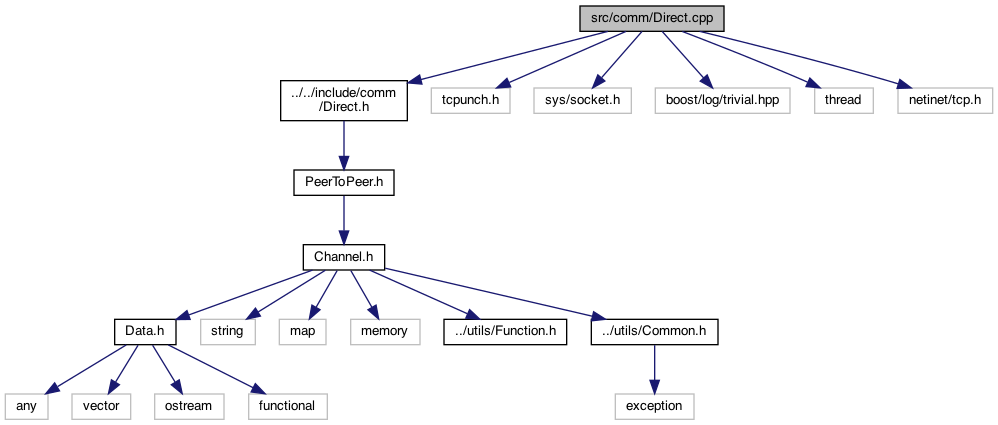
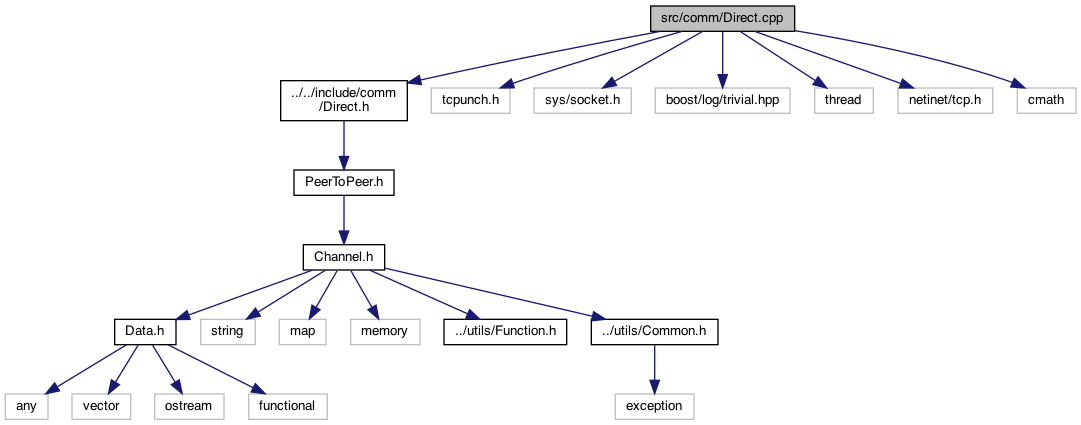
Install instructions update

diff --git a/_redis_8h_source.html b/_redis_8h_source.html
@@ -116,14 +116,14 @@ $(function() {
 <div class="ttc" id="a_client_server_8h_html"><div class="ttname"><a href="_client_server_8h.html">ClientServer.h</a></div></div>
 <div class="ttc" id="aclass_f_m_i_1_1_comm_1_1_client_server_html"><div class="ttname"><a href="class_f_m_i_1_1_comm_1_1_client_server.html">FMI::Comm::ClientServer</a></div><div class="ttdoc">Client-Server channel type.</div><div class="ttdef"><b>Definition:</b> ClientServer.h:13</div></div>
 <div class="ttc" id="aclass_f_m_i_1_1_comm_1_1_redis_html"><div class="ttname"><a href="class_f_m_i_1_1_comm_1_1_redis.html">FMI::Comm::Redis</a></div><div class="ttdoc">Channel that uses Redis with the Hiredis client library as storage backend.</div><div class="ttdef"><b>Definition:</b> Redis.h:11</div></div>
-<div class="ttc" id="aclass_f_m_i_1_1_comm_1_1_redis_html_a56eb68c64da6456490cb45651967f4fc"><div class="ttname"><a href="class_f_m_i_1_1_comm_1_1_redis.html#a56eb68c64da6456490cb45651967f4fc">FMI::Comm::Redis::~Redis</a></div><div class="ttdeci">~Redis()</div><div class="ttdef"><b>Definition:</b> Redis.cpp:29</div></div>
-<div class="ttc" id="aclass_f_m_i_1_1_comm_1_1_redis_html_a783483140e3cbfd508bd8ee59b15543d"><div class="ttname"><a href="class_f_m_i_1_1_comm_1_1_redis.html#a783483140e3cbfd508bd8ee59b15543d">FMI::Comm::Redis::delete_object</a></div><div class="ttdeci">void delete_object(std::string name) override</div><div class="ttdoc">Delete the object with the given name, needs to be implemented by channels.</div><div class="ttdef"><b>Definition:</b> Redis.cpp:55</div></div>
-<div class="ttc" id="aclass_f_m_i_1_1_comm_1_1_redis_html_a7fb6abe4aa6f2a8277fa2b432d9ff646"><div class="ttname"><a href="class_f_m_i_1_1_comm_1_1_redis.html#a7fb6abe4aa6f2a8277fa2b432d9ff646">FMI::Comm::Redis::download_object</a></div><div class="ttdeci">bool download_object(channel_data buf, std::string name) override</div><div class="ttdoc">Function to download data with a given name / key from the server, needs to be implemented by the cha...</div><div class="ttdef"><b>Definition:</b> Redis.cpp:42</div></div>
-<div class="ttc" id="aclass_f_m_i_1_1_comm_1_1_redis_html_aaa31ca6d44fe1b567029b9aa164e12e1"><div class="ttname"><a href="class_f_m_i_1_1_comm_1_1_redis.html#aaa31ca6d44fe1b567029b9aa164e12e1">FMI::Comm::Redis::get_price</a></div><div class="ttdeci">double get_price(Utils::peer_num producer, Utils::peer_num consumer, std::size_t size_in_bytes) override</div><div class="ttdoc">Cost model of an individual channel, provides price for a simple exchange with a number of producers ...</div><div class="ttdef"><b>Definition:</b> Redis.cpp:77</div></div>
-<div class="ttc" id="aclass_f_m_i_1_1_comm_1_1_redis_html_ac83b5b5b6b2e2152863e00ef982f4750"><div class="ttname"><a href="class_f_m_i_1_1_comm_1_1_redis.html#ac83b5b5b6b2e2152863e00ef982f4750">FMI::Comm::Redis::get_object_names</a></div><div class="ttdeci">std::vector&lt; std::string &gt; get_object_names() override</div><div class="ttdoc">List all the currently existing objects, needs to be implemented by channels. Needed by some collecti...</div><div class="ttdef"><b>Definition:</b> Redis.cpp:61</div></div>
-<div class="ttc" id="aclass_f_m_i_1_1_comm_1_1_redis_html_ad8664708f4d4778992884149008918e7"><div class="ttname"><a href="class_f_m_i_1_1_comm_1_1_redis.html#ad8664708f4d4778992884149008918e7">FMI::Comm::Redis::upload_object</a></div><div class="ttdeci">void upload_object(channel_data buf, std::string name) override</div><div class="ttdoc">Function to upload data with a given name / key to the server, needs to be implemented by the channel...</div><div class="ttdef"><b>Definition:</b> Redis.cpp:33</div></div>
-<div class="ttc" id="aclass_f_m_i_1_1_comm_1_1_redis_html_adb9887eebc9f8f9dde95cf191084021f"><div class="ttname"><a href="class_f_m_i_1_1_comm_1_1_redis.html#adb9887eebc9f8f9dde95cf191084021f">FMI::Comm::Redis::Redis</a></div><div class="ttdeci">Redis(std::map&lt; std::string, std::string &gt; params, std::map&lt; std::string, std::string &gt; model_params)</div><div class="ttdef"><b>Definition:</b> Redis.cpp:4</div></div>
-<div class="ttc" id="aclass_f_m_i_1_1_comm_1_1_redis_html_aecee7820a751b9ada1953fd3da1d501d"><div class="ttname"><a href="class_f_m_i_1_1_comm_1_1_redis.html#aecee7820a751b9ada1953fd3da1d501d">FMI::Comm::Redis::get_latency</a></div><div class="ttdeci">double get_latency(Utils::peer_num producer, Utils::peer_num consumer, std::size_t size_in_bytes) override</div><div class="ttdoc">Performance model of an individual channel, provides latency for a simple exchange with a number of p...</div><div class="ttdef"><b>Definition:</b> Redis.cpp:71</div></div>
+<div class="ttc" id="aclass_f_m_i_1_1_comm_1_1_redis_html_a56eb68c64da6456490cb45651967f4fc"><div class="ttname"><a href="class_f_m_i_1_1_comm_1_1_redis.html#a56eb68c64da6456490cb45651967f4fc">FMI::Comm::Redis::~Redis</a></div><div class="ttdeci">~Redis()</div><div class="ttdef"><b>Definition:</b> Redis.cpp:30</div></div>
+<div class="ttc" id="aclass_f_m_i_1_1_comm_1_1_redis_html_a783483140e3cbfd508bd8ee59b15543d"><div class="ttname"><a href="class_f_m_i_1_1_comm_1_1_redis.html#a783483140e3cbfd508bd8ee59b15543d">FMI::Comm::Redis::delete_object</a></div><div class="ttdeci">void delete_object(std::string name) override</div><div class="ttdoc">Delete the object with the given name, needs to be implemented by channels.</div><div class="ttdef"><b>Definition:</b> Redis.cpp:56</div></div>
+<div class="ttc" id="aclass_f_m_i_1_1_comm_1_1_redis_html_a7fb6abe4aa6f2a8277fa2b432d9ff646"><div class="ttname"><a href="class_f_m_i_1_1_comm_1_1_redis.html#a7fb6abe4aa6f2a8277fa2b432d9ff646">FMI::Comm::Redis::download_object</a></div><div class="ttdeci">bool download_object(channel_data buf, std::string name) override</div><div class="ttdoc">Function to download data with a given name / key from the server, needs to be implemented by the cha...</div><div class="ttdef"><b>Definition:</b> Redis.cpp:43</div></div>
+<div class="ttc" id="aclass_f_m_i_1_1_comm_1_1_redis_html_aaa31ca6d44fe1b567029b9aa164e12e1"><div class="ttname"><a href="class_f_m_i_1_1_comm_1_1_redis.html#aaa31ca6d44fe1b567029b9aa164e12e1">FMI::Comm::Redis::get_price</a></div><div class="ttdeci">double get_price(Utils::peer_num producer, Utils::peer_num consumer, std::size_t size_in_bytes) override</div><div class="ttdoc">Cost model of an individual channel, provides price for a simple exchange with a number of producers ...</div><div class="ttdef"><b>Definition:</b> Redis.cpp:78</div></div>
+<div class="ttc" id="aclass_f_m_i_1_1_comm_1_1_redis_html_ac83b5b5b6b2e2152863e00ef982f4750"><div class="ttname"><a href="class_f_m_i_1_1_comm_1_1_redis.html#ac83b5b5b6b2e2152863e00ef982f4750">FMI::Comm::Redis::get_object_names</a></div><div class="ttdeci">std::vector&lt; std::string &gt; get_object_names() override</div><div class="ttdoc">List all the currently existing objects, needs to be implemented by channels. Needed by some collecti...</div><div class="ttdef"><b>Definition:</b> Redis.cpp:62</div></div>
+<div class="ttc" id="aclass_f_m_i_1_1_comm_1_1_redis_html_ad8664708f4d4778992884149008918e7"><div class="ttname"><a href="class_f_m_i_1_1_comm_1_1_redis.html#ad8664708f4d4778992884149008918e7">FMI::Comm::Redis::upload_object</a></div><div class="ttdeci">void upload_object(channel_data buf, std::string name) override</div><div class="ttdoc">Function to upload data with a given name / key to the server, needs to be implemented by the channel...</div><div class="ttdef"><b>Definition:</b> Redis.cpp:34</div></div>
+<div class="ttc" id="aclass_f_m_i_1_1_comm_1_1_redis_html_adb9887eebc9f8f9dde95cf191084021f"><div class="ttname"><a href="class_f_m_i_1_1_comm_1_1_redis.html#adb9887eebc9f8f9dde95cf191084021f">FMI::Comm::Redis::Redis</a></div><div class="ttdeci">Redis(std::map&lt; std::string, std::string &gt; params, std::map&lt; std::string, std::string &gt; model_params)</div><div class="ttdef"><b>Definition:</b> Redis.cpp:5</div></div>
+<div class="ttc" id="aclass_f_m_i_1_1_comm_1_1_redis_html_aecee7820a751b9ada1953fd3da1d501d"><div class="ttname"><a href="class_f_m_i_1_1_comm_1_1_redis.html#aecee7820a751b9ada1953fd3da1d501d">FMI::Comm::Redis::get_latency</a></div><div class="ttdeci">double get_latency(Utils::peer_num producer, Utils::peer_num consumer, std::size_t size_in_bytes) override</div><div class="ttdoc">Performance model of an individual channel, provides latency for a simple exchange with a number of p...</div><div class="ttdef"><b>Definition:</b> Redis.cpp:72</div></div>
 <div class="ttc" id="anamespace_f_m_i_1_1_comm_html"><div class="ttname"><a href="namespace_f_m_i_1_1_comm.html">FMI::Comm</a></div><div class="ttdef"><b>Definition:</b> Channel.h:37</div></div>
 <div class="ttc" id="anamespace_f_m_i_1_1_utils_html_add14eb01bf0abdaa4f594ef3a0ca66d0"><div class="ttname"><a href="namespace_f_m_i_1_1_utils.html#add14eb01bf0abdaa4f594ef3a0ca66d0">FMI::Utils::peer_num</a></div><div class="ttdeci">unsigned int peer_num</div><div class="ttdoc">Type for peer IDs / numbers.</div><div class="ttdef"><b>Definition:</b> Common.h:8</div></div>
 <div class="ttc" id="astructchannel__data_html"><div class="ttname"><a href="structchannel__data.html">channel_data</a></div><div class="ttdoc">Data that is passed to and from channels.</div><div class="ttdef"><b>Definition:</b> Channel.h:30</div></div>

diff --git a/_s3_8h_source.html b/_s3_8h_source.html
@@ -120,14 +120,14 @@ $(function() {
 <div class="ttc" id="a_client_server_8h_html"><div class="ttname"><a href="_client_server_8h.html">ClientServer.h</a></div></div>
 <div class="ttc" id="aclass_f_m_i_1_1_comm_1_1_client_server_html"><div class="ttname"><a href="class_f_m_i_1_1_comm_1_1_client_server.html">FMI::Comm::ClientServer</a></div><div class="ttdoc">Client-Server channel type.</div><div class="ttdef"><b>Definition:</b> ClientServer.h:13</div></div>
 <div class="ttc" id="aclass_f_m_i_1_1_comm_1_1_s3_html"><div class="ttname"><a href="class_f_m_i_1_1_comm_1_1_s3.html">FMI::Comm::S3</a></div><div class="ttdoc">Channel that uses AWS S3 as backend and uses the AWS SDK for C++ to access S3.</div><div class="ttdef"><b>Definition:</b> S3.h:13</div></div>
-<div class="ttc" id="aclass_f_m_i_1_1_comm_1_1_s3_html_a28ddc5a43d85a1343668bc9d6caef69f"><div class="ttname"><a href="class_f_m_i_1_1_comm_1_1_s3.html#a28ddc5a43d85a1343668bc9d6caef69f">FMI::Comm::S3::~S3</a></div><div class="ttdeci">~S3()</div><div class="ttdef"><b>Definition:</b> S3.cpp:30</div></div>
-<div class="ttc" id="aclass_f_m_i_1_1_comm_1_1_s3_html_a2b4bc194d75dacd003a616b16a81dc71"><div class="ttname"><a href="class_f_m_i_1_1_comm_1_1_s3.html#a2b4bc194d75dacd003a616b16a81dc71">FMI::Comm::S3::get_price</a></div><div class="ttdeci">double get_price(Utils::peer_num producer, Utils::peer_num consumer, std::size_t size_in_bytes) override</div><div class="ttdoc">Cost model of an individual channel, provides price for a simple exchange with a number of producers ...</div><div class="ttdef"><b>Definition:</b> S3.cpp:97</div></div>
-<div class="ttc" id="aclass_f_m_i_1_1_comm_1_1_s3_html_a7610f3350ffa5cd0feebaa8507403a98"><div class="ttname"><a href="class_f_m_i_1_1_comm_1_1_s3.html#a7610f3350ffa5cd0feebaa8507403a98">FMI::Comm::S3::delete_object</a></div><div class="ttdeci">void delete_object(std::string name) override</div><div class="ttdoc">Delete the object with the given name, needs to be implemented by channels.</div><div class="ttdef"><b>Definition:</b> S3.cpp:63</div></div>
-<div class="ttc" id="aclass_f_m_i_1_1_comm_1_1_s3_html_a8606b5883ad1b1fb372beccce0019062"><div class="ttname"><a href="class_f_m_i_1_1_comm_1_1_s3.html#a8606b5883ad1b1fb372beccce0019062">FMI::Comm::S3::download_object</a></div><div class="ttdeci">bool download_object(channel_data buf, std::string name) override</div><div class="ttdoc">Function to download data with a given name / key from the server, needs to be implemented by the cha...</div><div class="ttdef"><b>Definition:</b> S3.cpp:37</div></div>
-<div class="ttc" id="aclass_f_m_i_1_1_comm_1_1_s3_html_ab4595d487160f2050398bc5d28f3e844"><div class="ttname"><a href="class_f_m_i_1_1_comm_1_1_s3.html#ab4595d487160f2050398bc5d28f3e844">FMI::Comm::S3::get_object_names</a></div><div class="ttdeci">std::vector&lt; std::string &gt; get_object_names() override</div><div class="ttdoc">List all the currently existing objects, needs to be implemented by channels. Needed by some collecti...</div><div class="ttdef"><b>Definition:</b> S3.cpp:72</div></div>
-<div class="ttc" id="aclass_f_m_i_1_1_comm_1_1_s3_html_aee2eb028bfaeeabe20f50c62adf6ce94"><div class="ttname"><a href="class_f_m_i_1_1_comm_1_1_s3.html#aee2eb028bfaeeabe20f50c62adf6ce94">FMI::Comm::S3::upload_object</a></div><div class="ttdeci">void upload_object(channel_data buf, std::string name) override</div><div class="ttdoc">Function to upload data with a given name / key to the server, needs to be implemented by the channel...</div><div class="ttdef"><b>Definition:</b> S3.cpp:50</div></div>
-<div class="ttc" id="aclass_f_m_i_1_1_comm_1_1_s3_html_aefef5060576867032c7df77b0c1e36d7"><div class="ttname"><a href="class_f_m_i_1_1_comm_1_1_s3.html#aefef5060576867032c7df77b0c1e36d7">FMI::Comm::S3::S3</a></div><div class="ttdeci">S3(std::map&lt; std::string, std::string &gt; params, std::map&lt; std::string, std::string &gt; model_params)</div><div class="ttdef"><b>Definition:</b> S3.cpp:11</div></div>
-<div class="ttc" id="aclass_f_m_i_1_1_comm_1_1_s3_html_af092c8ddcbc5a5de6d3f854f7cb5958a"><div class="ttname"><a href="class_f_m_i_1_1_comm_1_1_s3.html#af092c8ddcbc5a5de6d3f854f7cb5958a">FMI::Comm::S3::get_latency</a></div><div class="ttdeci">double get_latency(Utils::peer_num producer, Utils::peer_num consumer, std::size_t size_in_bytes) override</div><div class="ttdoc">Performance model of an individual channel, provides latency for a simple exchange with a number of p...</div><div class="ttdef"><b>Definition:</b> S3.cpp:88</div></div>
+<div class="ttc" id="aclass_f_m_i_1_1_comm_1_1_s3_html_a28ddc5a43d85a1343668bc9d6caef69f"><div class="ttname"><a href="class_f_m_i_1_1_comm_1_1_s3.html#a28ddc5a43d85a1343668bc9d6caef69f">FMI::Comm::S3::~S3</a></div><div class="ttdeci">~S3()</div><div class="ttdef"><b>Definition:</b> S3.cpp:31</div></div>
+<div class="ttc" id="aclass_f_m_i_1_1_comm_1_1_s3_html_a2b4bc194d75dacd003a616b16a81dc71"><div class="ttname"><a href="class_f_m_i_1_1_comm_1_1_s3.html#a2b4bc194d75dacd003a616b16a81dc71">FMI::Comm::S3::get_price</a></div><div class="ttdeci">double get_price(Utils::peer_num producer, Utils::peer_num consumer, std::size_t size_in_bytes) override</div><div class="ttdoc">Cost model of an individual channel, provides price for a simple exchange with a number of producers ...</div><div class="ttdef"><b>Definition:</b> S3.cpp:98</div></div>
+<div class="ttc" id="aclass_f_m_i_1_1_comm_1_1_s3_html_a7610f3350ffa5cd0feebaa8507403a98"><div class="ttname"><a href="class_f_m_i_1_1_comm_1_1_s3.html#a7610f3350ffa5cd0feebaa8507403a98">FMI::Comm::S3::delete_object</a></div><div class="ttdeci">void delete_object(std::string name) override</div><div class="ttdoc">Delete the object with the given name, needs to be implemented by channels.</div><div class="ttdef"><b>Definition:</b> S3.cpp:64</div></div>
+<div class="ttc" id="aclass_f_m_i_1_1_comm_1_1_s3_html_a8606b5883ad1b1fb372beccce0019062"><div class="ttname"><a href="class_f_m_i_1_1_comm_1_1_s3.html#a8606b5883ad1b1fb372beccce0019062">FMI::Comm::S3::download_object</a></div><div class="ttdeci">bool download_object(channel_data buf, std::string name) override</div><div class="ttdoc">Function to download data with a given name / key from the server, needs to be implemented by the cha...</div><div class="ttdef"><b>Definition:</b> S3.cpp:38</div></div>
+<div class="ttc" id="aclass_f_m_i_1_1_comm_1_1_s3_html_ab4595d487160f2050398bc5d28f3e844"><div class="ttname"><a href="class_f_m_i_1_1_comm_1_1_s3.html#ab4595d487160f2050398bc5d28f3e844">FMI::Comm::S3::get_object_names</a></div><div class="ttdeci">std::vector&lt; std::string &gt; get_object_names() override</div><div class="ttdoc">List all the currently existing objects, needs to be implemented by channels. Needed by some collecti...</div><div class="ttdef"><b>Definition:</b> S3.cpp:73</div></div>
+<div class="ttc" id="aclass_f_m_i_1_1_comm_1_1_s3_html_aee2eb028bfaeeabe20f50c62adf6ce94"><div class="ttname"><a href="class_f_m_i_1_1_comm_1_1_s3.html#aee2eb028bfaeeabe20f50c62adf6ce94">FMI::Comm::S3::upload_object</a></div><div class="ttdeci">void upload_object(channel_data buf, std::string name) override</div><div class="ttdoc">Function to upload data with a given name / key to the server, needs to be implemented by the channel...</div><div class="ttdef"><b>Definition:</b> S3.cpp:51</div></div>
+<div class="ttc" id="aclass_f_m_i_1_1_comm_1_1_s3_html_aefef5060576867032c7df77b0c1e36d7"><div class="ttname"><a href="class_f_m_i_1_1_comm_1_1_s3.html#aefef5060576867032c7df77b0c1e36d7">FMI::Comm::S3::S3</a></div><div class="ttdeci">S3(std::map&lt; std::string, std::string &gt; params, std::map&lt; std::string, std::string &gt; model_params)</div><div class="ttdef"><b>Definition:</b> S3.cpp:12</div></div>
+<div class="ttc" id="aclass_f_m_i_1_1_comm_1_1_s3_html_af092c8ddcbc5a5de6d3f854f7cb5958a"><div class="ttname"><a href="class_f_m_i_1_1_comm_1_1_s3.html#af092c8ddcbc5a5de6d3f854f7cb5958a">FMI::Comm::S3::get_latency</a></div><div class="ttdeci">double get_latency(Utils::peer_num producer, Utils::peer_num consumer, std::size_t size_in_bytes) override</div><div class="ttdoc">Performance model of an individual channel, provides latency for a simple exchange with a number of p...</div><div class="ttdef"><b>Definition:</b> S3.cpp:89</div></div>
 <div class="ttc" id="anamespace_f_m_i_1_1_comm_html"><div class="ttname"><a href="namespace_f_m_i_1_1_comm.html">FMI::Comm</a></div><div class="ttdef"><b>Definition:</b> Channel.h:37</div></div>
 <div class="ttc" id="anamespace_f_m_i_1_1_utils_html_add14eb01bf0abdaa4f594ef3a0ca66d0"><div class="ttname"><a href="namespace_f_m_i_1_1_utils.html#add14eb01bf0abdaa4f594ef3a0ca66d0">FMI::Utils::peer_num</a></div><div class="ttdeci">unsigned int peer_num</div><div class="ttdoc">Type for peer IDs / numbers.</div><div class="ttdef"><b>Definition:</b> Common.h:8</div></div>
 <div class="ttc" id="astructchannel__data_html"><div class="ttname"><a href="structchannel__data.html">channel_data</a></div><div class="ttdoc">Data that is passed to and from channels.</div><div class="ttdef"><b>Definition:</b> Channel.h:30</div></div>

diff --git a/_direct_8h_source.html b/_direct_8h_source.html
@@ -111,11 +111,11 @@ $(function() {
 <div class="line"><a id="l00041" name="l00041"></a><span class="lineno">   41</span><span class="preprocessor">#endif </span><span class="comment">//FMI_DIRECT_H</span></div>
 <div class="ttc" id="a_peer_to_peer_8h_html"><div class="ttname"><a href="_peer_to_peer_8h.html">PeerToPeer.h</a></div></div>
 <div class="ttc" id="aclass_f_m_i_1_1_comm_1_1_direct_html"><div class="ttname"><a href="class_f_m_i_1_1_comm_1_1_direct.html">FMI::Comm::Direct</a></div><div class="ttdoc">Channel that uses the TCPunch TCP NAT Hole Punching Library for connection establishment.</div><div class="ttdef"><b>Definition:</b> Direct.h:8</div></div>
-<div class="ttc" id="aclass_f_m_i_1_1_comm_1_1_direct_html_a1132291b55591339c7b51613baf68899"><div class="ttname"><a href="class_f_m_i_1_1_comm_1_1_direct.html#a1132291b55591339c7b51613baf68899">FMI::Comm::Direct::get_latency</a></div><div class="ttdeci">double get_latency(Utils::peer_num producer, Utils::peer_num consumer, std::size_t size_in_bytes) override</div><div class="ttdoc">Performance model of an individual channel, provides latency for a simple exchange with a number of p...</div><div class="ttdef"><b>Definition:</b> Direct.cpp:72</div></div>
-<div class="ttc" id="aclass_f_m_i_1_1_comm_1_1_direct_html_a50894f22f125221cd3bbed72cbf486f6"><div class="ttname"><a href="class_f_m_i_1_1_comm_1_1_direct.html#a50894f22f125221cd3bbed72cbf486f6">FMI::Comm::Direct::Direct</a></div><div class="ttdeci">Direct(std::map&lt; std::string, std::string &gt; params, std::map&lt; std::string, std::string &gt; model_params)</div><div class="ttdef"><b>Definition:</b> Direct.cpp:8</div></div>
-<div class="ttc" id="aclass_f_m_i_1_1_comm_1_1_direct_html_a6bee34d108685adb6f2dba6543f7d018"><div class="ttname"><a href="class_f_m_i_1_1_comm_1_1_direct.html#a6bee34d108685adb6f2dba6543f7d018">FMI::Comm::Direct::recv_object</a></div><div class="ttdeci">void recv_object(channel_data buf, Utils::peer_num sender_id) override</div><div class="ttdoc">Receive an object from peer with ID peer_id. Needs to be implemented by the channels.</div><div class="ttdef"><b>Definition:</b> Direct.cpp:35</div></div>
-<div class="ttc" id="aclass_f_m_i_1_1_comm_1_1_direct_html_ab60ce397b06cf75e320d70087c621595"><div class="ttname"><a href="class_f_m_i_1_1_comm_1_1_direct.html#ab60ce397b06cf75e320d70087c621595">FMI::Comm::Direct::get_price</a></div><div class="ttdeci">double get_price(Utils::peer_num producer, Utils::peer_num consumer, std::size_t size_in_bytes) override</div><div class="ttdoc">Cost model of an individual channel, provides price for a simple exchange with a number of producers ...</div><div class="ttdef"><b>Definition:</b> Direct.cpp:78</div></div>
-<div class="ttc" id="aclass_f_m_i_1_1_comm_1_1_direct_html_adaecf336f8f2b81df6b29970dff93505"><div class="ttname"><a href="class_f_m_i_1_1_comm_1_1_direct.html#adaecf336f8f2b81df6b29970dff93505">FMI::Comm::Direct::send_object</a></div><div class="ttdeci">void send_object(channel_data buf, Utils::peer_num rcpt_id) override</div><div class="ttdoc">Send an object to peer with ID peer_id. Needs to be implemented by the channels.</div><div class="ttdef"><b>Definition:</b> Direct.cpp:24</div></div>
+<div class="ttc" id="aclass_f_m_i_1_1_comm_1_1_direct_html_a1132291b55591339c7b51613baf68899"><div class="ttname"><a href="class_f_m_i_1_1_comm_1_1_direct.html#a1132291b55591339c7b51613baf68899">FMI::Comm::Direct::get_latency</a></div><div class="ttdeci">double get_latency(Utils::peer_num producer, Utils::peer_num consumer, std::size_t size_in_bytes) override</div><div class="ttdoc">Performance model of an individual channel, provides latency for a simple exchange with a number of p...</div><div class="ttdef"><b>Definition:</b> Direct.cpp:73</div></div>
+<div class="ttc" id="aclass_f_m_i_1_1_comm_1_1_direct_html_a50894f22f125221cd3bbed72cbf486f6"><div class="ttname"><a href="class_f_m_i_1_1_comm_1_1_direct.html#a50894f22f125221cd3bbed72cbf486f6">FMI::Comm::Direct::Direct</a></div><div class="ttdeci">Direct(std::map&lt; std::string, std::string &gt; params, std::map&lt; std::string, std::string &gt; model_params)</div><div class="ttdef"><b>Definition:</b> Direct.cpp:9</div></div>
+<div class="ttc" id="aclass_f_m_i_1_1_comm_1_1_direct_html_a6bee34d108685adb6f2dba6543f7d018"><div class="ttname"><a href="class_f_m_i_1_1_comm_1_1_direct.html#a6bee34d108685adb6f2dba6543f7d018">FMI::Comm::Direct::recv_object</a></div><div class="ttdeci">void recv_object(channel_data buf, Utils::peer_num sender_id) override</div><div class="ttdoc">Receive an object from peer with ID peer_id. Needs to be implemented by the channels.</div><div class="ttdef"><b>Definition:</b> Direct.cpp:36</div></div>
+<div class="ttc" id="aclass_f_m_i_1_1_comm_1_1_direct_html_ab60ce397b06cf75e320d70087c621595"><div class="ttname"><a href="class_f_m_i_1_1_comm_1_1_direct.html#ab60ce397b06cf75e320d70087c621595">FMI::Comm::Direct::get_price</a></div><div class="ttdeci">double get_price(Utils::peer_num producer, Utils::peer_num consumer, std::size_t size_in_bytes) override</div><div class="ttdoc">Cost model of an individual channel, provides price for a simple exchange with a number of producers ...</div><div class="ttdef"><b>Definition:</b> Direct.cpp:79</div></div>
+<div class="ttc" id="aclass_f_m_i_1_1_comm_1_1_direct_html_adaecf336f8f2b81df6b29970dff93505"><div class="ttname"><a href="class_f_m_i_1_1_comm_1_1_direct.html#adaecf336f8f2b81df6b29970dff93505">FMI::Comm::Direct::send_object</a></div><div class="ttdeci">void send_object(channel_data buf, Utils::peer_num rcpt_id) override</div><div class="ttdoc">Send an object to peer with ID peer_id. Needs to be implemented by the channels.</div><div class="ttdef"><b>Definition:</b> Direct.cpp:25</div></div>
 <div class="ttc" id="aclass_f_m_i_1_1_comm_1_1_peer_to_peer_html"><div class="ttname"><a href="class_f_m_i_1_1_comm_1_1_peer_to_peer.html">FMI::Comm::PeerToPeer</a></div><div class="ttdoc">Peer-To-Peer channel type.</div><div class="ttdef"><b>Definition:</b> PeerToPeer.h:11</div></div>
 <div class="ttc" id="anamespace_f_m_i_1_1_comm_html"><div class="ttname"><a href="namespace_f_m_i_1_1_comm.html">FMI::Comm</a></div><div class="ttdef"><b>Definition:</b> Channel.h:37</div></div>
 <div class="ttc" id="anamespace_f_m_i_1_1_utils_html_add14eb01bf0abdaa4f594ef3a0ca66d0"><div class="ttname"><a href="namespace_f_m_i_1_1_utils.html#add14eb01bf0abdaa4f594ef3a0ca66d0">FMI::Utils::peer_num</a></div><div class="ttdeci">unsigned int peer_num</div><div class="ttdoc">Type for peer IDs / numbers.</div><div class="ttdef"><b>Definition:</b> Common.h:8</div></div>

diff --git a/index.html b/index.html
@@ -113,6 +113,38 @@ Python</h2>
 <div class="line">             fmi.func(fmi.op.custom, <span class="keyword">lambda</span> a, b: 3 * a + b, <span class="keyword">False</span>, <span class="keyword">False</span>),</div>
 <div class="line">             fmi.types(fmi.datatypes.int))</div>
 <div class="line"><span class="keyword">assert</span> id_custom == 5 <span class="comment"># Left-to-right order because of non-assoc. / non-comm.</span></div>
+</div><!-- fragment --><h1><a class="anchor" id="autotoc_md3"></a>
+Installation / Compilation</h1>
+<h2><a class="anchor" id="autotoc_md4"></a>
+C++</h2>
+<p >To facilitate compiling, there is a Docker image with all necessary dependencies: </p><div class="fragment"><div class="line">docker pull ghcr.io/opencorech/fmi-build-cpp:latest</div>
+</div><!-- fragment --> <h2><a class="anchor" id="autotoc_md5"></a>
+Python</h2>
+<h3><a class="anchor" id="autotoc_md6"></a>
+AWS Lambda Layer</h3>
+<p >The simplest way to use the library are the AWS Lambda layers, available under the following ARNs:</p>
+<ul>
+<li><code>arn:aws:lambda:eu-central-1:386971375191:layer:fmi-python36:1</code></li>
+<li><code>arn:aws:lambda:eu-central-1:386971375191:layer:fmi-python37:1</code></li>
+<li><code>arn:aws:lambda:eu-central-1:386971375191:layer:fmi-python38:1</code></li>
+<li><code>arn:aws:lambda:eu-central-1:386971375191:layer:fmi-python39:1</code></li>
+</ul>
+<p >If you are using CloudFormation, you simply have to reference the ARN with <code>Layers:</code>, a minimal example for Python 3.9 looks like this: </p><div class="fragment"><div class="line">AWSTemplateFormatVersion: &#39;2010-09-09&#39;</div>
+<div class="line">Transform: &#39;AWS::Serverless-2016-10-31&#39;</div>
+<div class="line"> </div>
+<div class="line">Resources:</div>
+<div class="line">  lambdaml:</div>
+<div class="line">    Type: AWS::Serverless::Function</div>
+<div class="line">    Properties:</div>
+<div class="line">      FunctionName: fmi-example</div>
+<div class="line">      Runtime: python3.9</div>
+<div class="line">      Layers:</div>
+<div class="line">        - arn:aws:lambda:eu-central-1:386971375191:layer:fmi-python39:1</div>
+</div><!-- fragment --><p> When using the AWS Management Console, you can add it under <code>Layers</code> -&gt; <code>Add a layer</code> -&gt; <code>Specify an ARN</code>:</p>
+<p ><img src="./aws_layer.png" alt="" width="100%" class="inline"/></p>
+<h3><a class="anchor" id="autotoc_md7"></a>
+Compilation</h3>
+<p >To compile the library by yourself, there are preconfigured Docker images for all Python versions that contain the correct dependencies (<a class="el" href="namespace_f_m_i.html">FMI</a> dependencies, Python headers, and the correct <code>Boost.Python</code>): </p><div class="fragment"><div class="line">docker pull ghcr.io/opencorech/fmi-build-python39:latest</div>
 </div><!-- fragment --> </div></div><!-- PageDoc -->
 </div><!-- contents -->
 <hr class="footer"/><address class="footer"><small>&copy; 2021 Roman Böhringer</small></address>

diff --git a/_s3_8cpp.html b/_s3_8cpp.html
@@ -80,12 +80,13 @@ $(function() {
 <code>#include &lt;aws/s3/model/GetObjectRequest.h&gt;</code><br />
 <code>#include &lt;aws/s3/model/DeleteObjectRequest.h&gt;</code><br />
 <code>#include &lt;aws/s3/model/ListObjectsRequest.h&gt;</code><br />
+<code>#include &lt;cmath&gt;</code><br />
 </div><div class="textblock"><div class="dynheader">
 Include dependency graph for S3.cpp:</div>
 <div class="dyncontent">
 <div class="center"><img src="_s3_8cpp__incl.png" border="0" usemap="#asrc_2comm_2_s3_8cpp" alt=""/></div>
 <map name="asrc_2comm_2_s3_8cpp" id="asrc_2comm_2_s3_8cpp">
-<area shape="rect" title=" " alt="" coords="938,5,1063,32"/>
+<area shape="rect" title=" " alt="" coords="1063,5,1189,32"/>
 <area shape="rect" title=" " alt="" coords="319,80,523,121"/>
 <area shape="rect" href="_s3_8h.html" title=" " alt="" coords="547,87,705,114"/>
 <area shape="rect" title=" " alt="" coords="729,87,864,114"/>
@@ -93,6 +94,7 @@ Include dependency graph for S3.cpp:</div>
 <area shape="rect" title=" " alt="" coords="1138,87,1365,114"/>
 <area shape="rect" title=" " alt="" coords="1389,80,1572,121"/>
 <area shape="rect" title=" " alt="" coords="1597,80,1770,121"/>
+<area shape="rect" title=" " alt="" coords="1794,87,1853,114"/>
 <area shape="rect" href="_client_server_8h.html" title=" " alt="" coords="427,177,531,203"/>
 <area shape="rect" title=" " alt="" coords="5,333,60,360"/>
 <area shape="rect" title=" " alt="" coords="561,333,608,360"/>

diff --git a/_direct_8cpp.html b/_direct_8cpp.html
@@ -77,18 +77,20 @@ $(function() {
 <code>#include &lt;boost/log/trivial.hpp&gt;</code><br />
 <code>#include &lt;thread&gt;</code><br />
 <code>#include &lt;netinet/tcp.h&gt;</code><br />
+<code>#include &lt;cmath&gt;</code><br />
 </div><div class="textblock"><div class="dynheader">
 Include dependency graph for Direct.cpp:</div>
 <div class="dyncontent">
 <div class="center"><img src="_direct_8cpp__incl.png" border="0" usemap="#asrc_2comm_2_direct_8cpp" alt=""/></div>
 <map name="asrc_2comm_2_direct_8cpp" id="asrc_2comm_2_direct_8cpp">
-<area shape="rect" title=" " alt="" coords="580,5,724,32"/>
+<area shape="rect" title=" " alt="" coords="651,5,795,32"/>
 <area shape="rect" href="_direct_8h.html" title=" " alt="" coords="281,80,407,121"/>
 <area shape="rect" title=" " alt="" coords="431,87,510,114"/>
 <area shape="rect" title=" " alt="" coords="534,87,631,114"/>
 <area shape="rect" title=" " alt="" coords="655,87,790,114"/>
 <area shape="rect" title=" " alt="" coords="815,87,873,114"/>
 <area shape="rect" title=" " alt="" coords="898,87,993,114"/>
+<area shape="rect" title=" " alt="" coords="1017,87,1076,114"/>
 <area shape="rect" href="_peer_to_peer_8h.html" title=" " alt="" coords="294,169,394,196"/>
 <area shape="rect" href="_channel_8h.html" title=" " alt="" coords="303,244,385,271"/>
 <area shape="rect" href="_data_8h.html" title=" " alt="" coords="115,319,176,345"/>

diff --git a/_redis_8cpp.html b/_redis_8cpp.html
@@ -73,14 +73,16 @@ $(function() {
 <div class="contents">
 <div class="textblock"><code>#include &quot;<a class="el" href="_redis_8h_source.html">../../include/comm/Redis.h</a>&quot;</code><br />
 <code>#include &lt;boost/log/trivial.hpp&gt;</code><br />
+<code>#include &lt;cmath&gt;</code><br />
 </div><div class="textblock"><div class="dynheader">
 Include dependency graph for Redis.cpp:</div>
 <div class="dyncontent">
 <div class="center"><img src="_redis_8cpp__incl.png" border="0" usemap="#asrc_2comm_2_redis_8cpp" alt=""/></div>
 <map name="asrc_2comm_2_redis_8cpp" id="asrc_2comm_2_redis_8cpp">
-<area shape="rect" title=" " alt="" coords="536,5,679,32"/>
+<area shape="rect" title=" " alt="" coords="613,5,756,32"/>
 <area shape="rect" href="_redis_8h.html" title=" " alt="" coords="467,80,593,121"/>
 <area shape="rect" title=" " alt="" coords="617,87,752,114"/>
+<area shape="rect" title=" " alt="" coords="777,87,835,114"/>
 <area shape="rect" href="_client_server_8h.html" title=" " alt="" coords="427,169,531,196"/>
 <area shape="rect" title=" " alt="" coords="5,319,60,345"/>
 <area shape="rect" title=" " alt="" coords="561,319,608,345"/>
